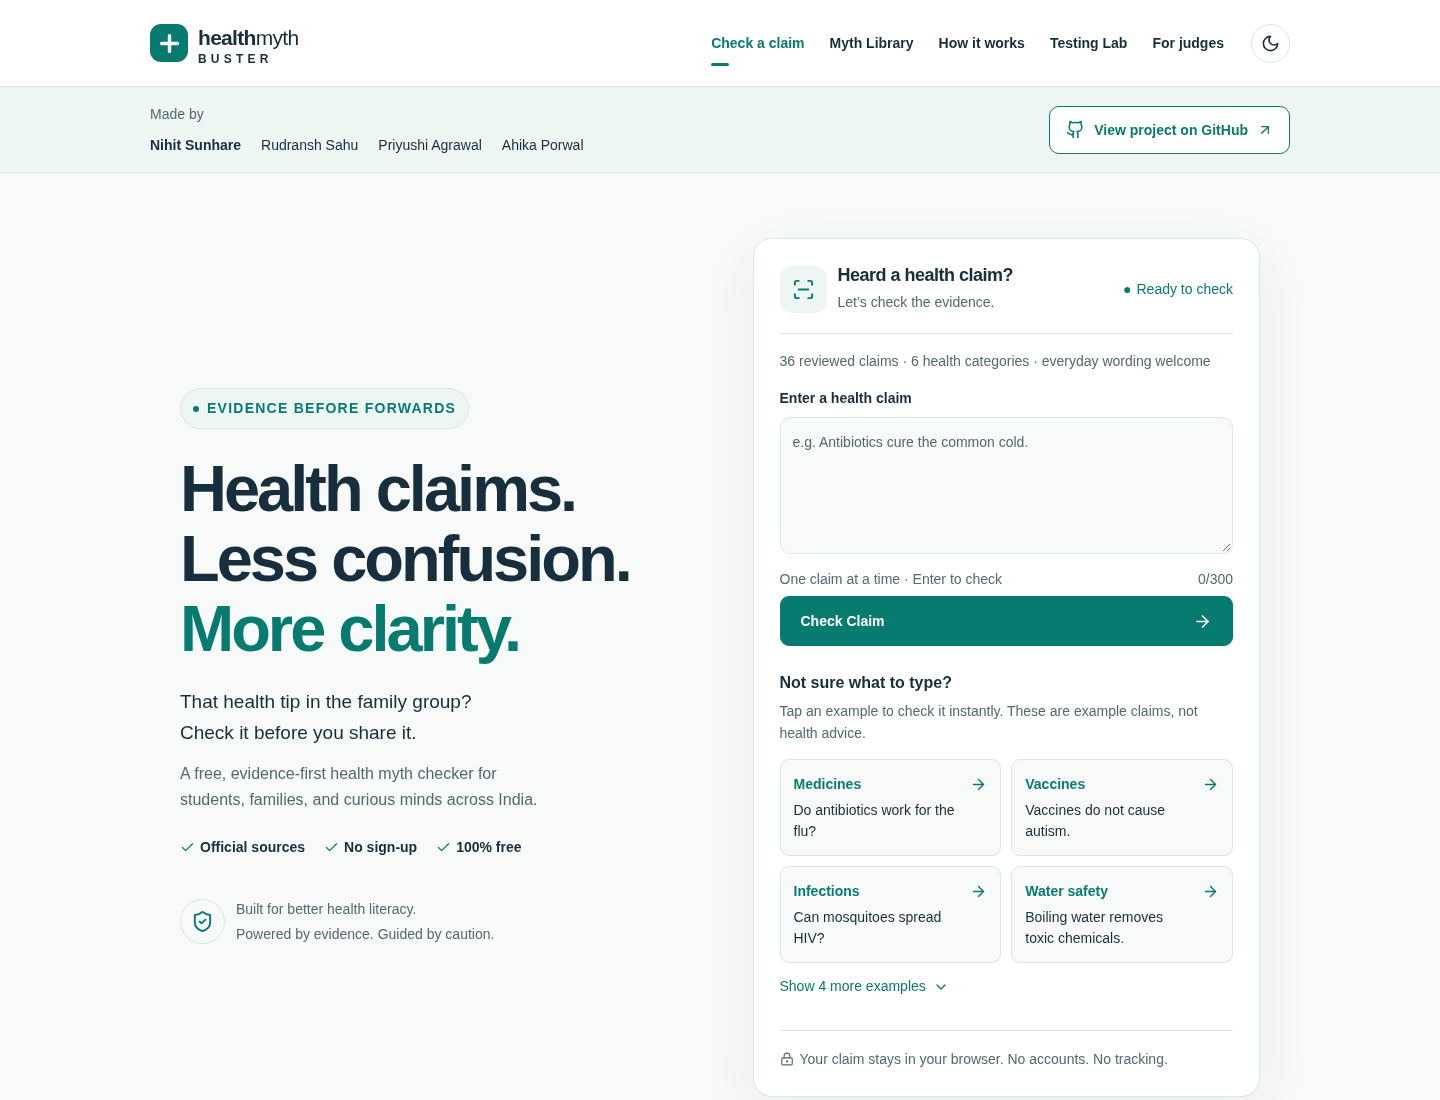
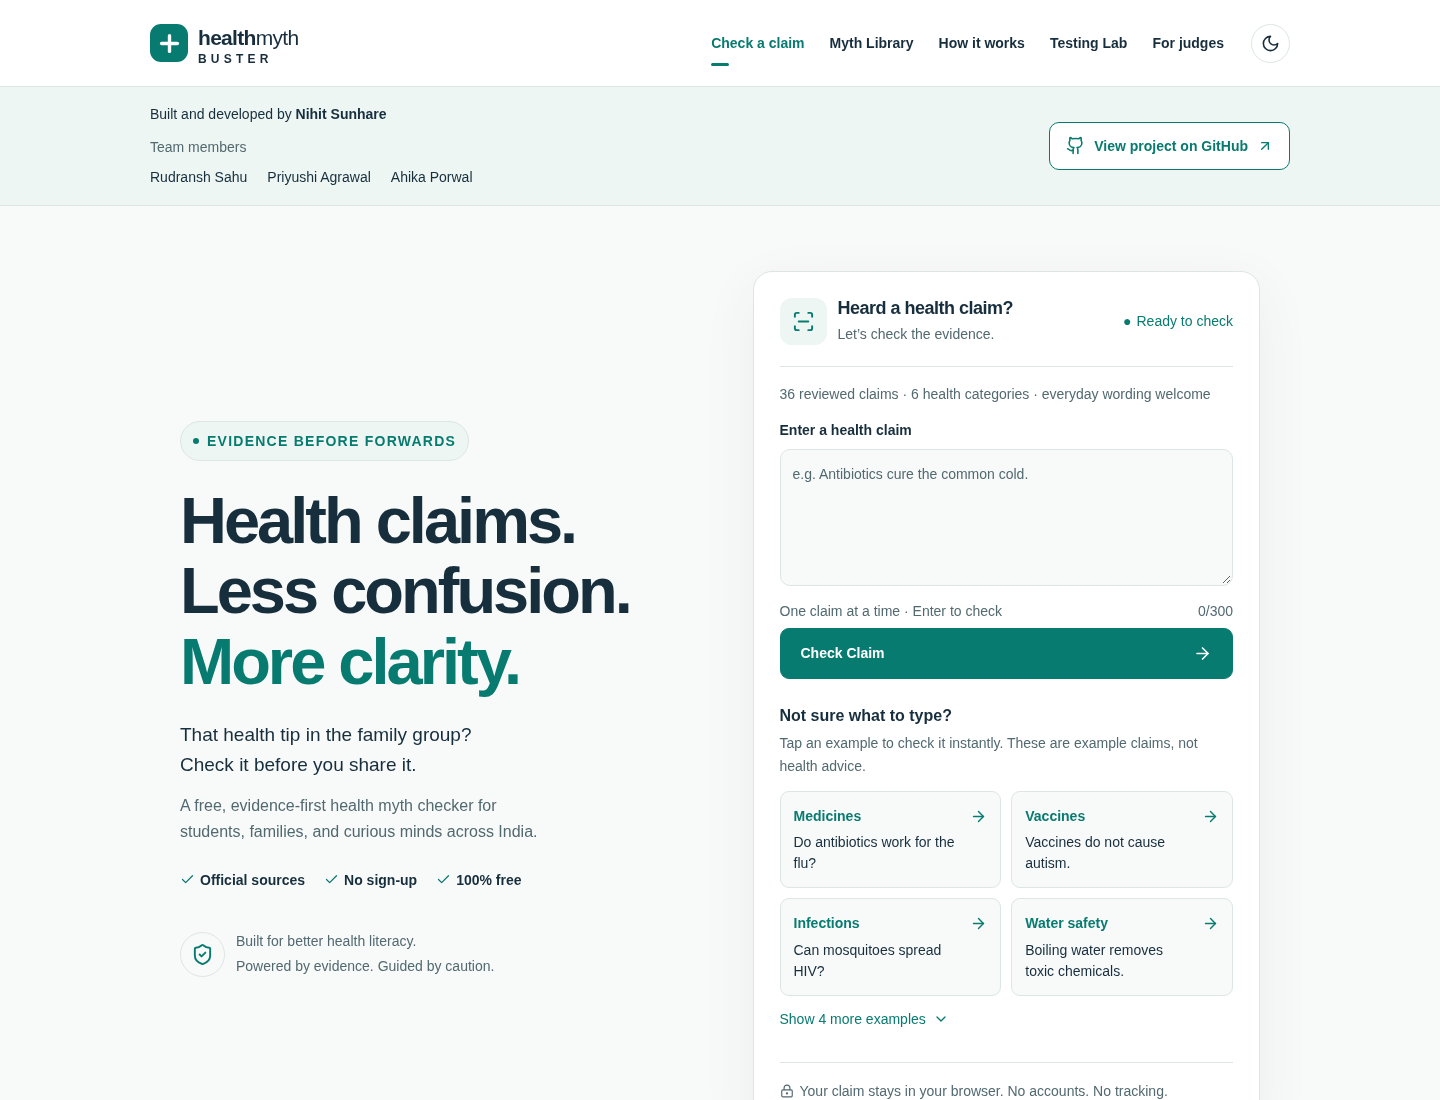
Distinguish development credit from team membership

diff --git a/src/App.tsx b/src/App.tsx
@@ -76,11 +76,11 @@ export default function App() {
         <div className="top-credits-wrap">
           <div className="top-credits">
             <div className="team-credit">
-              <span className="credit-label">Made by</span>
-              <ul aria-label="Project team">
-                <li>
-                  <strong>Nihit Sunhare</strong>
-                </li>
+              <p className="developer-credit">
+                Built and developed by <strong>Nihit Sunhare</strong>
+              </p>
+              <span className="credit-label">Team members</span>
+              <ul aria-label="Team members">
                 <li>Rudransh Sahu</li>
                 <li>Priyushi Agrawal</li>
                 <li>Ahika Porwal</li>
@@ -139,11 +139,11 @@ export default function App() {
         </div>
         <div className="footer-credits">
           <div className="team-credit">
-            <span className="credit-label">Made by</span>
-            <ul aria-label="Project team">
-              <li>
-                <strong>Nihit Sunhare</strong>
-              </li>
+            <p className="developer-credit">
+              Built and developed by <strong>Nihit Sunhare</strong>
+            </p>
+            <span className="credit-label">Team members</span>
+            <ul aria-label="Team members">
               <li>Rudransh Sahu</li>
               <li>Priyushi Agrawal</li>
               <li>Ahika Porwal</li>

diff --git a/src/styles.css b/src/styles.css
@@ -1434,3 +1434,9 @@ a:hover {
     justify-content: center;
   }
 }
+
+.developer-credit {
+  margin: 0 0 10px;
+  color: var(--ink);
+  font-size: 14px;
+}

diff --git a/README.md b/README.md
@@ -237,11 +237,13 @@ Add the real production URL only after these checks succeed.
 | [Presentation notes](PRESENTATION_NOTES.md)   | Suggested PPT content and demonstration sequence.                         |
 | [Video script](VIDEO_SCRIPT.md)               | Four speaking parts with placeholders for real contributions and results. |
 
-## Made by
+## Team
 
 <div align="center">
 
-**Nihit Sunhare** · Rudransh Sahu · Priyushi Agrawal · Ahika Porwal
+**Built and developed by Nihit Sunhare**
+
+Team members: Rudransh Sahu · Priyushi Agrawal · Ahika Porwal
 
 Built for **HCL Jigsaw 7.0**<br />
 AI Revolution & Digital Futures
